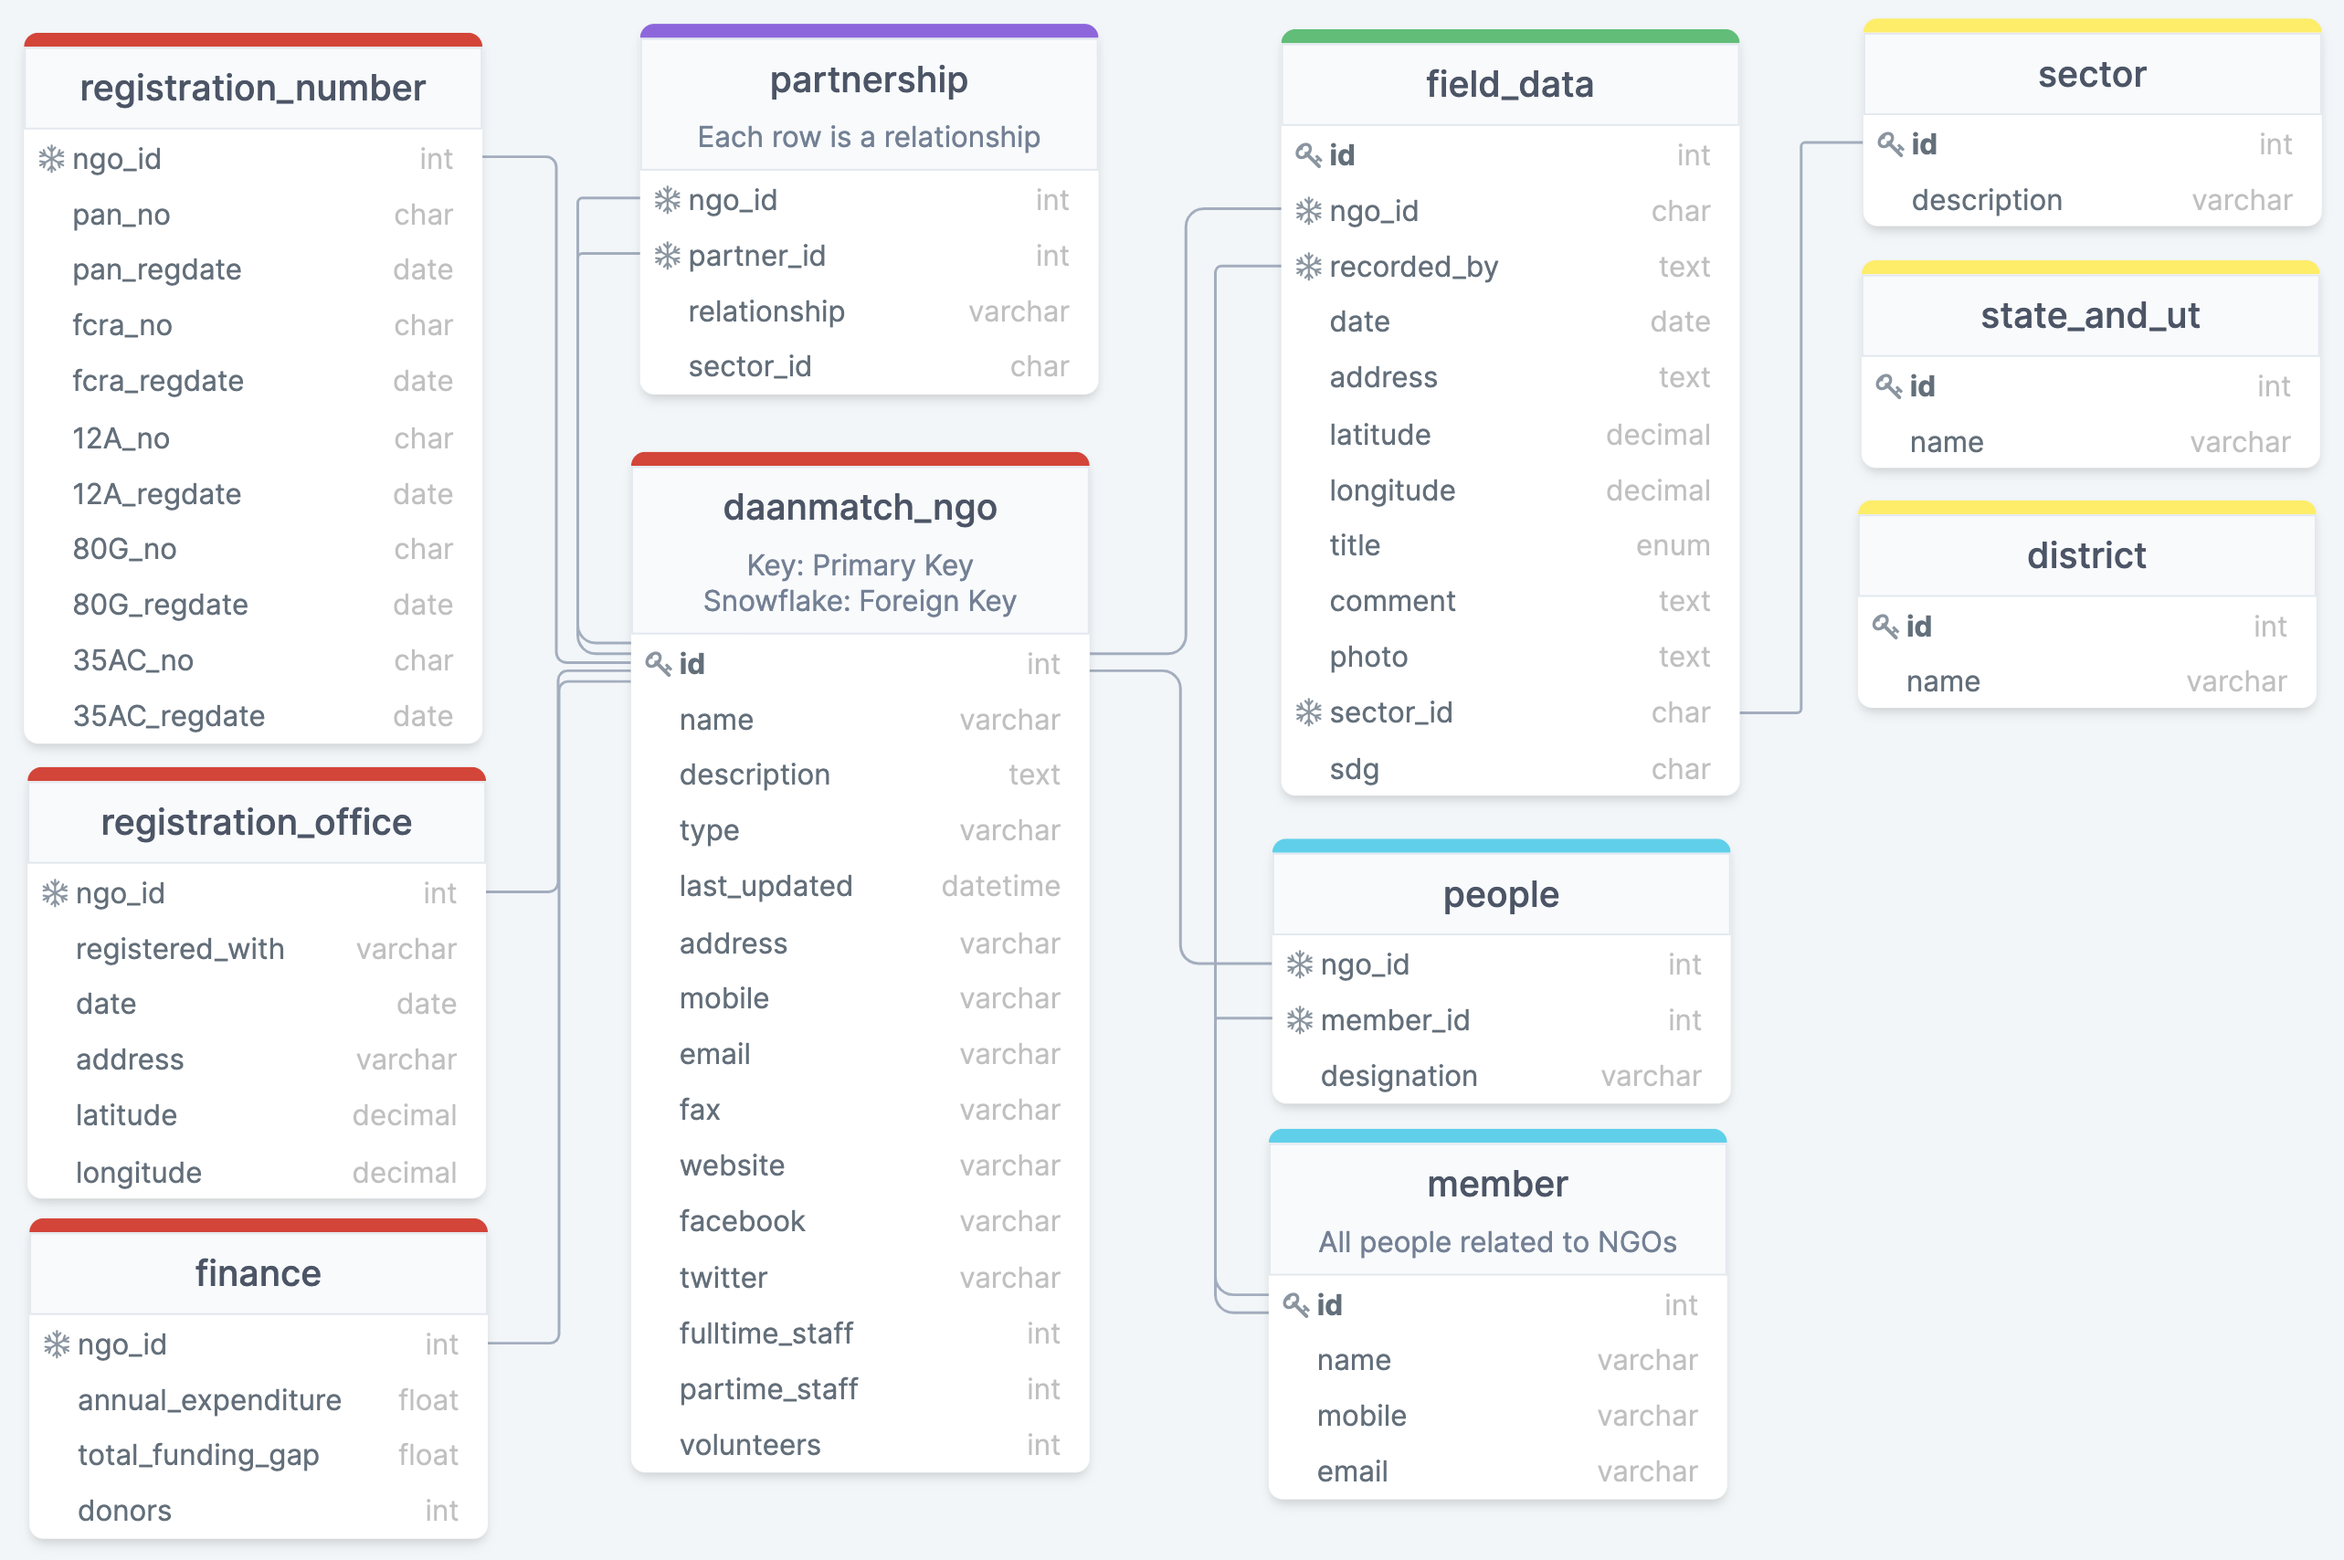
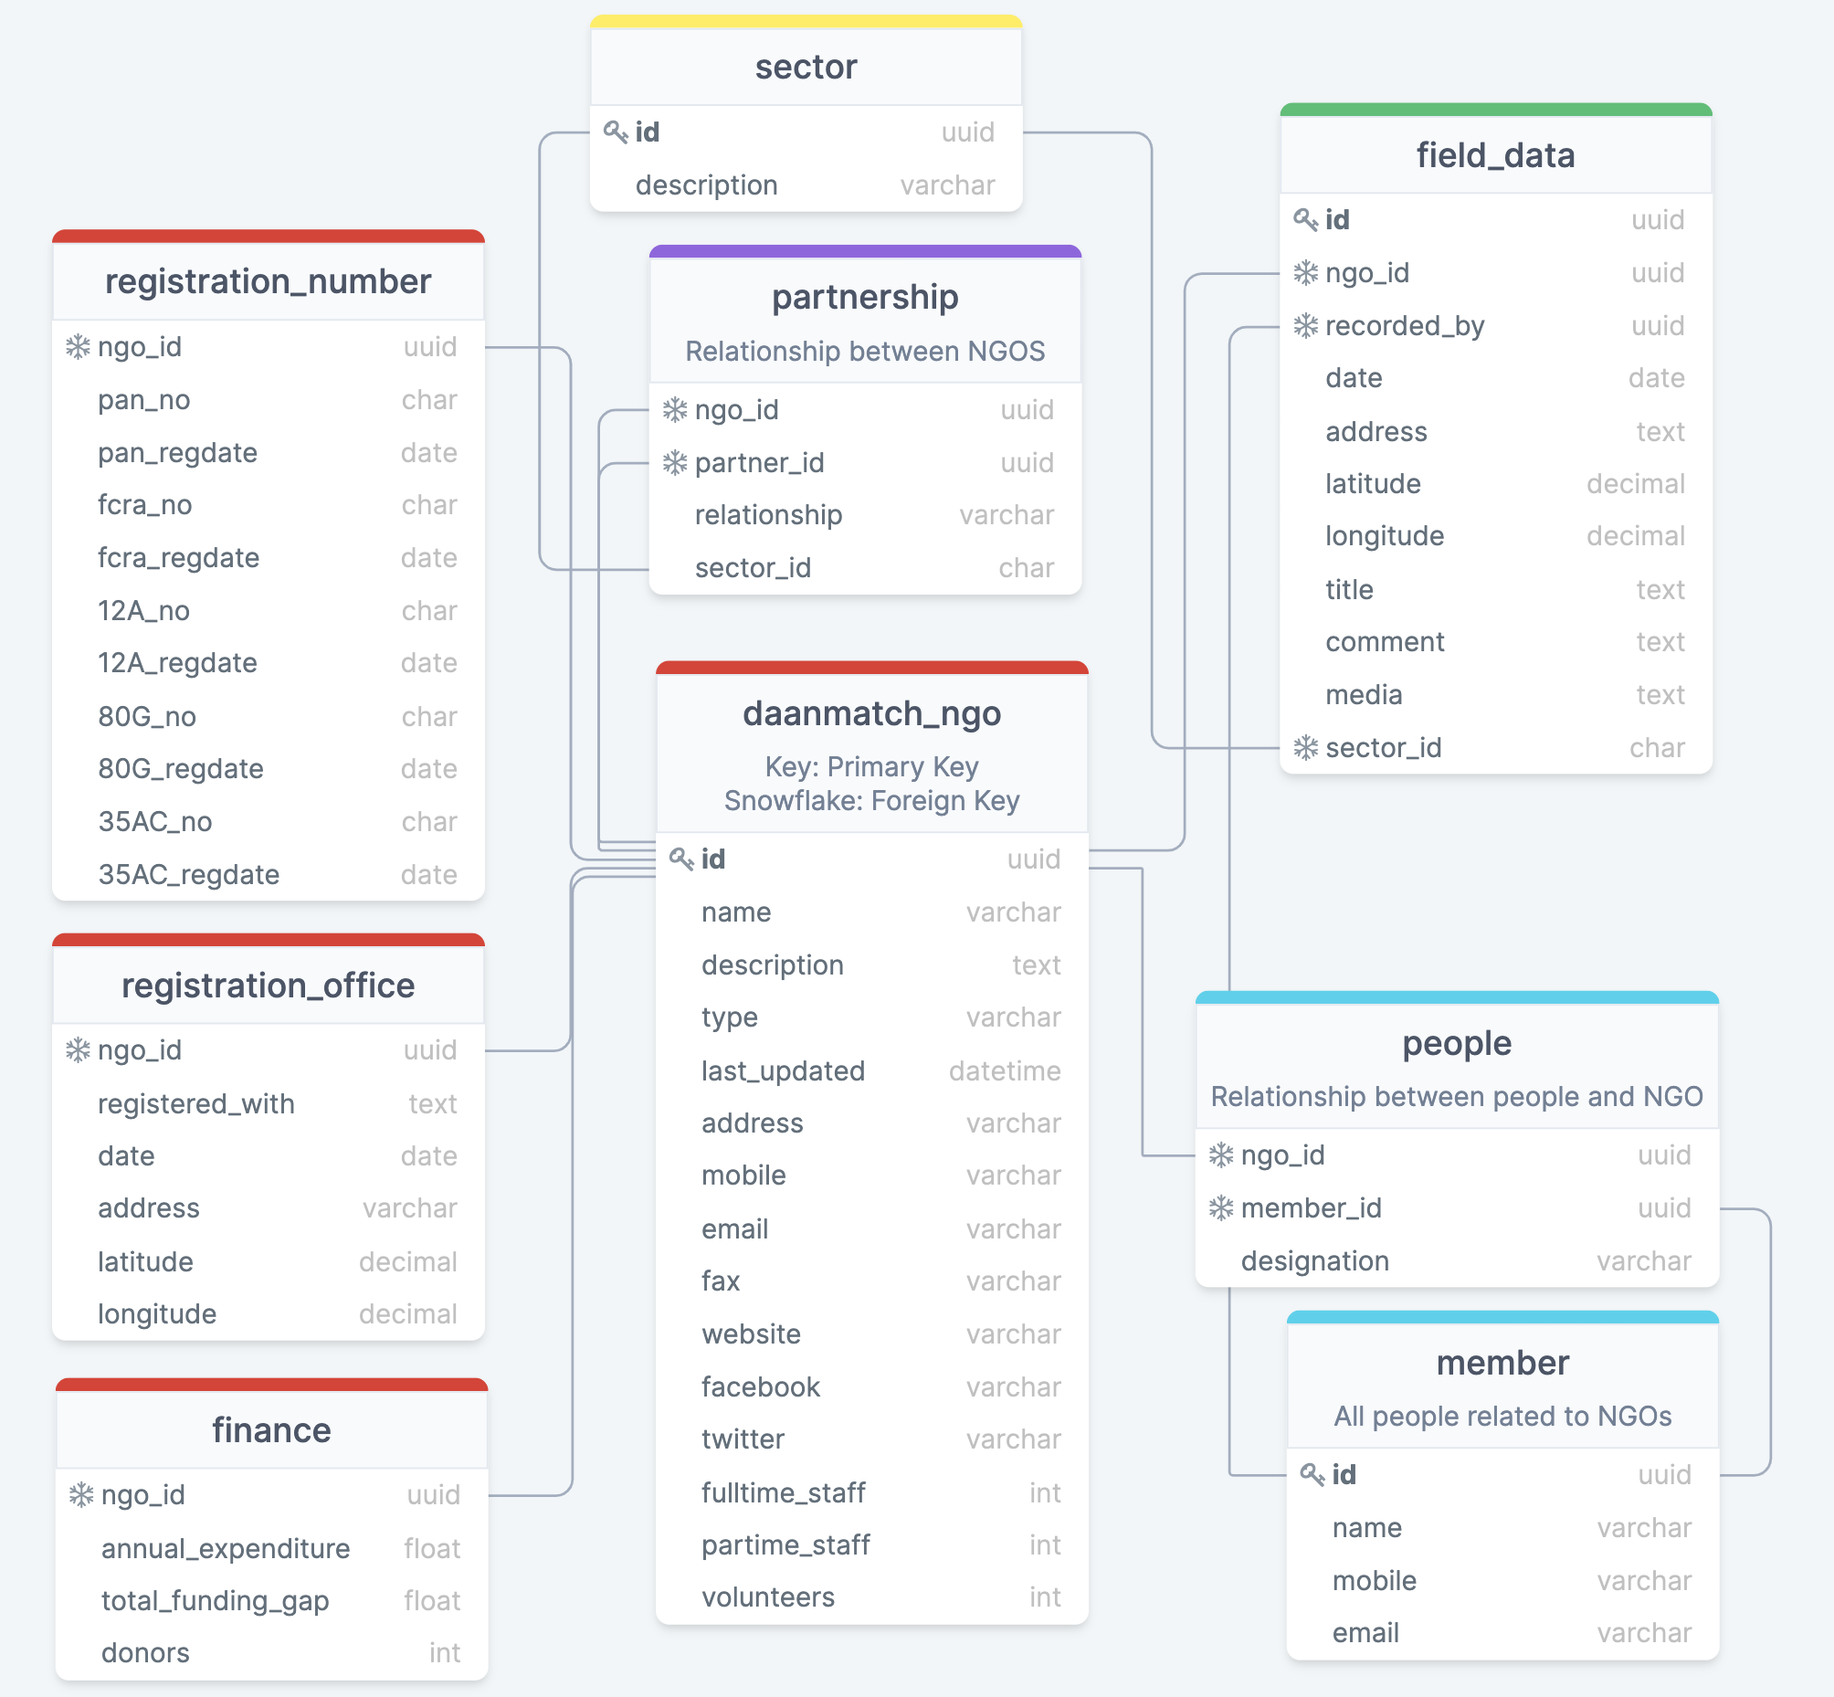
add new data model

diff --git a/Onboarding/database-w3.md b/Onboarding/database-w3.md
@@ -16,19 +16,13 @@ Get familiar with AWS RDS and MySQL.
 
 :::{admonition} What is AWS RDS?
 :class: tip, dropdown
-Amazon Relational Database Service (Amazon RDS) makes it easy to set up, operate, and scale a relational database in the cloud. It provides cost-efficient and resizable capacity while automating time-consuming administration tasks, such as hardware provisioning, database setup, patching, and backups.
+[Amazon Relational Database Service (Amazon RDS)](https://aws.amazon.com/rds/) makes it easy to set up, operate, and scale a relational database in the cloud. It provides cost-efficient and resizable capacity while automating time-consuming administration tasks, such as hardware provisioning, database setup, patching, and backups.
 :::
 
 :::{admonition} What is MySQL?
 :class: tip, dropdown
-MySQL is a relational database management system (RDBMS) developed by Oracle that is based on structured query language (SQL). A database is a structured collection of data. It may be anything from a simple shopping list to a picture gallery or a place to hold the vast amounts of information in a corporate network.
+[MySQL](https://www.talend.com/resources/what-is-mysql/) is a relational database management system (RDBMS) developed by Oracle that is based on structured query language (SQL). A database is a structured collection of data. It may be anything from a simple shopping list to a picture gallery or a place to hold the vast amounts of information in a corporate network.
 :::
-
-**TODO:** [Connect to DaanMatch's DB instance running the MySQL database engine](https://docs.aws.amazon.com/AmazonRDS/latest/UserGuide/USER_ConnectToInstance.html)
-
-```{note}
-End point and Port can be found in #team-shpg on Slack.
-```
 
 ## DaanMatch's Data Model
 
@@ -37,7 +31,13 @@ End point and Port can be found in #team-shpg on Slack.
 
 <img src="images/drawsql.png" alt="DaanMatch Data Model" class="bg-primary mb-1" width="600px">
 
-DaanMatch's Data Model visualized using DrawSQL.
+DaanMatch's Data Model visualized using DrawSQL. Last updated Feb 21 2022. <br>
+Changed id datatype from int to uuid.
+:::
+
+:::{admonition} What is UUID?
+:class: tip, dropdown
+[Universally Unique Identifiers, or UUIDS](https://www.educba.com/mysql-uuid/), are 128 bit numbers, composed of 16 octets and represented as 32 base-16 characters, that can be used to identify information across a computer system.
 :::
 
 **TODO:** [Create a Model](https://dev.mysql.com/doc/workbench/en/wb-getting-started-tutorial-creating-a-model.html)
@@ -48,7 +48,7 @@ DaanMatch's Data Model visualized using DrawSQL.
 - **Emily:** finance, partnership
 - **Apoorv:** people, member
 
-**TODO:** Save SQL Script onto data-model repository.
+**TODO:** [Export EER Script](https://stackoverflow.com/questions/9609152/how-to-print-large-erd-diagrams-done-in-mysql-workbench#:~:text=Open%20your%20ERD%20and%20then,JPEG%20if%20you%20want%20to.) and Save SQL Script onto data-model repository.
 
 ## Resources ℹ
 
